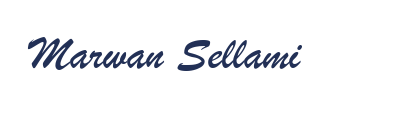
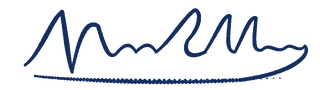
fix(report): use authentic physician signature mark with digital verification caption

Changed region(s): [[0.0625, 0.0889, 0.9688, 0.9556]]

diff --git a/frontend-react/src/utils/generateScanPdfReport.ts b/frontend-react/src/utils/generateScanPdfReport.ts
@@ -2,7 +2,7 @@ import { jsPDF } from 'jspdf';
 import type { ScanRecord } from '../types/scan';
 
 const DEFAULT_DOCTOR_SIGNATURE_BASE64 =
[2 lines of base64/hex data omitted]
 
 /**
  * Safely renders an image (Base64 data URI or raw Base64) into the jsPDF document.

diff --git a/backend-laravel/resources/views/pdf/report.blade.php b/backend-laravel/resources/views/pdf/report.blade.php
@@ -248,7 +248,7 @@
         }
 
         .sig-container {
-            height: 34px;
+            height: 42px;
             position: relative;
         }
 
@@ -589,17 +589,18 @@
             <td style="width: 50%; vertical-align: top;">
                 <div class="signoff-label">Attending physician</div>
                 <div class="physician-name">{{ $physicianName }}</div>
+                <div style="font-size: 7.2pt; color: #64748b; margin-top: 2px;">Consultant Radiologist &amp; Nephrologist</div>
             </td>
             <td style="width: 50%; vertical-align: top; padding-left: 35px;">
                 <div class="signoff-label">Reviewed by (Physician)</div>
                 <div class="sig-container">
                     @php
[2 lines of base64/hex data omitted]
                     @endphp
-                    <img src="{{ $sigSrc }}" style="max-height: 38px; max-width: 170px; display: block;" alt="Doctor Signature">
+                    <img src="{{ $sigSrc }}" style="max-height: 42px; max-width: 185px; display: block;" alt="Doctor Signature">
                 </div>
                 <div class="sig-line"></div>
-                <div class="sig-caption">Name / Signature / Date</div>
+                <div class="sig-caption"><span style="font-weight: bold; color: #0f172a;">{{ $physicianName }}</span> &bull; <span style="color: #0284c7; font-weight: 600;">Digitally Signed</span> &bull; {{ $issueDateTime }}</div>
             </td>
         </tr>
     </table>
